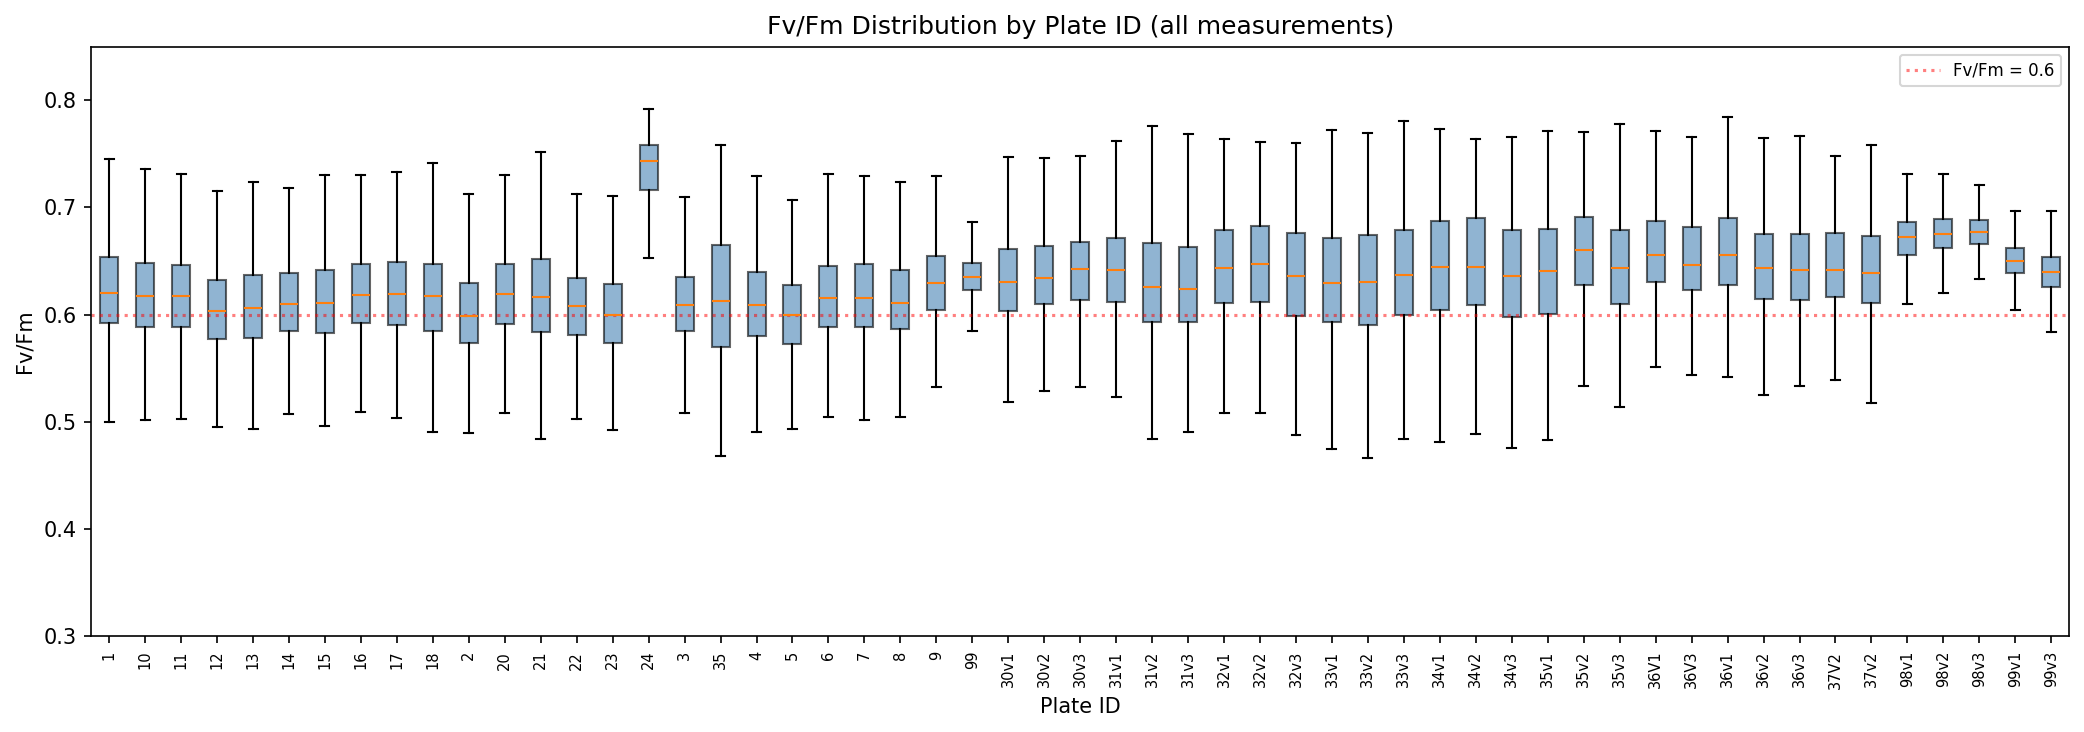
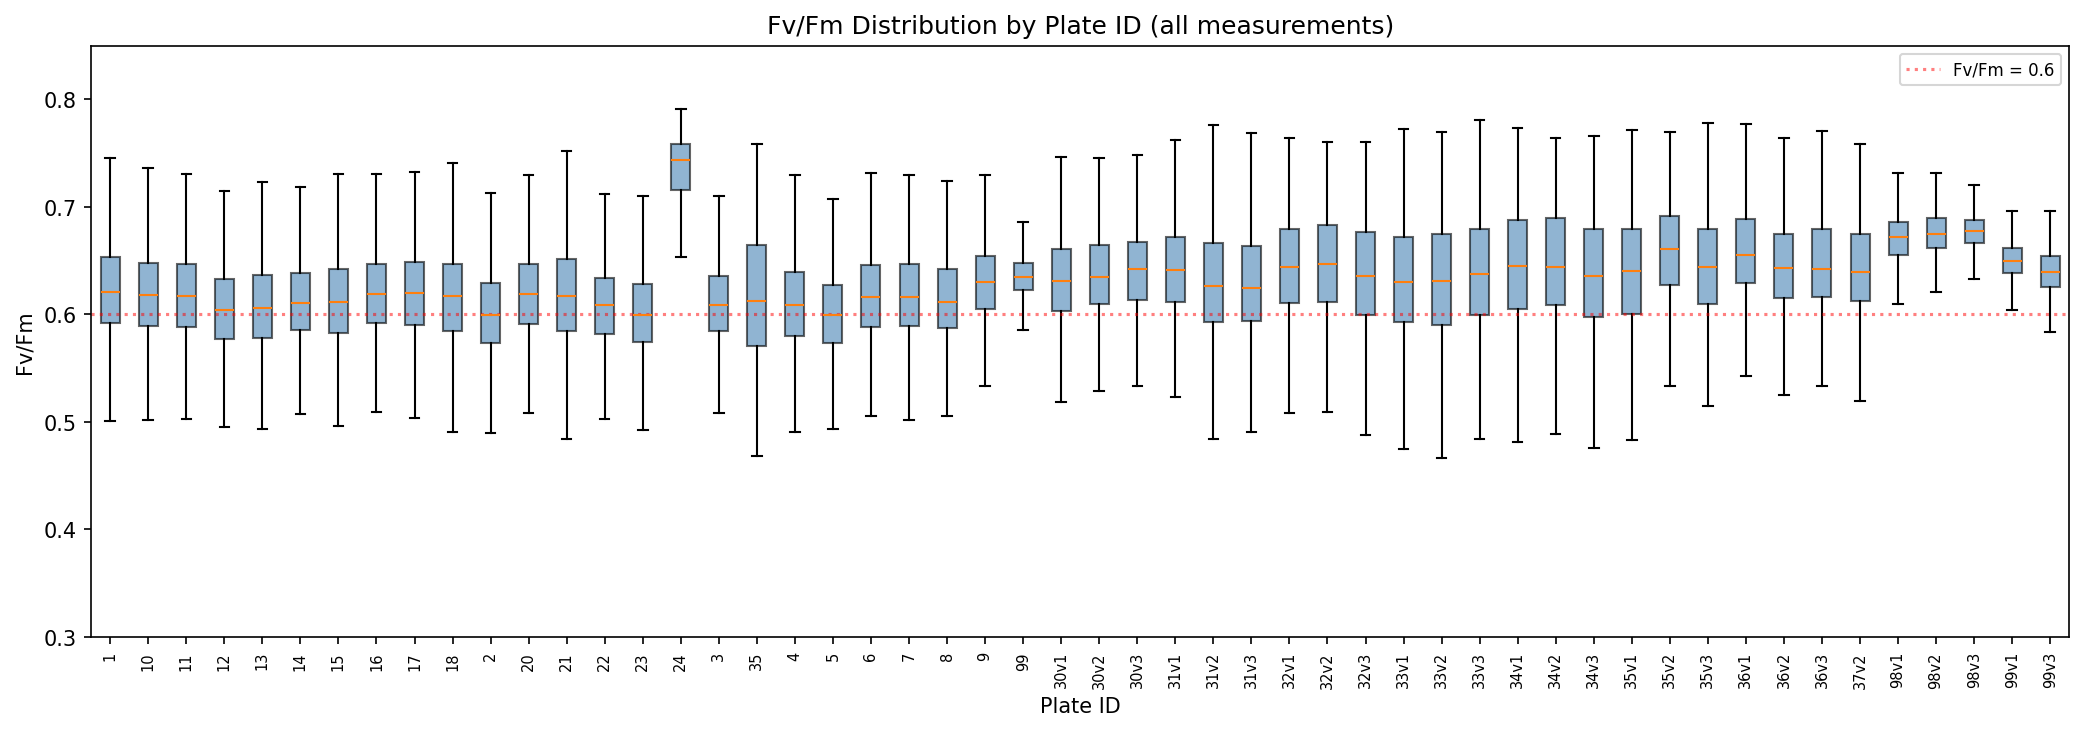
fix: normalise plate names to lowercase and remove contamination column
Plate names extracted from filenames (e.g. 36V1) are now lowercased in
parse_name(), resolving the case mismatch with the identity spreadsheet
that previously excluded 3 plates. Removed the contamination spreadsheet
merge (old data, never committed) and its associated paths/tests.
Updated report to v1.3 with current statistics (138,819 rows, 726 cols,
50 plates, 2 excluded).

Changed region(s): [[0.0, 0.1806, 0.9981, 0.6019], [0.0312, 0.8427, 0.9981, 0.9932], [0.9045, 0.0602, 0.9981, 0.0903]]

diff --git a/chlamy_impi/paths.py b/chlamy_impi/paths.py
@@ -32,10 +32,6 @@ CORRECTED_WELL_SEGMENTATION_DIR = PROJECT_ROOT / "output" / "corrected_well_segm
 IDENTITY_SPREADSHEET_PATH = \
     INPUT_DIR / "20251002 Finalized Identities Phase I plates.xlsx"
 
-# CONTAMINATION_SPREADSHEET_PATH records per-well contamination observations
-CONTAMINATION_SPREADSHEET_PATH = INPUT_DIR / "Contamination Phase I.xlsx"
-
-
 # DATABASE_DIR is where we save the output of the database creation as .csv files
 DATABASE_DIR = PROJECT_ROOT / "output" / "database_creation"
 
@@ -110,9 +106,6 @@ def npy_img_array_path(name):
 def get_identity_spreadsheet_path():
     return IDENTITY_SPREADSHEET_PATH
 
-
-def get_contamination_spreadsheet_path():
-    return CONTAMINATION_SPREADSHEET_PATH
 
 
 def get_database_output_dir():

diff --git a/chlamy_impi/error_correction/validation.py b/chlamy_impi/error_correction/validation.py
@@ -26,11 +26,13 @@ def get_timestamp_check_exempt_plates() -> frozenset[str]:
         20231102_4-M4_20h_ML          — 24-hour gap (experiment interrupted overnight)
         20231104_4-M6_10min-10min     — DST clock rollback (US, first Sunday Nov 2023)
         20241102_33v3-M6_10min-10min  — DST clock rollback (US, first Sunday Nov 2024)
+        20260307_37v1-M3_20h_ML       — DST spring-forward (US, second Sunday Mar 2026)
     """
     return frozenset({
         '20231102_4-M4_20h_ML',
         '20231104_4-M6_10min-10min',
         '20241102_33v3-M6_10min-10min',
+        '20260307_37v1-M3_20h_ML',
     })
 
 

diff --git a/tests/test_database_content.py b/tests/test_database_content.py
@@ -16,7 +16,7 @@ _DB_PATH = get_csv_filename()
 # Plates documented in the Stage 2b report section as present in the
 # experimental data but absent from the identity spreadsheet, and therefore
 # excluded from the final database.
-_PLATES_EXCLUDED_NO_IDENTITY = {"34v1", "34v2", "34v3", "35", "35v1", "35v2", "35v3"}
+_PLATES_EXCLUDED_NO_IDENTITY = {"34v3", "35"}
 
 
 @unittest.skipUnless(_DB_PATH.exists(), "Real database file not found — run the pipeline first")

diff --git a/chlamy_impi/database_creation/utils.py b/chlamy_impi/database_creation/utils.py
@@ -84,7 +84,7 @@ def parse_name(f, return_date: int = False):
         assert len(parts) in {3, 4}, f"Unexpected number of parts in filename: {f}, parts: {parts}"
 
         middle = parts[1].split("-")
-        plate_num = middle[0]
+        plate_num = middle[0].lower()
 
         measurement_num = middle[1]
 

diff --git a/docs/index.md b/docs/index.md
@@ -19,18 +19,18 @@ This report documents the Chlamy-IMPI data processing pipeline, which extracts p
 
 | Metric | Value |
 |---|---|
-| Raw TIF/CSV pairs processed | **350** |
-| Plates passing error correction | **350 / 350** (100%) |
+| Raw TIF/CSV pairs processed | **388** |
+| Plates passing error correction | **388 / 388** (100%) |
 | Unique plate IDs in database | **50** |
-| Unique plate IDs in experimental data | **55** (5 excluded: no identity mapping) |
+| Unique plate IDs in experimental data | **52** (2 excluded: no identity mapping) |
 | Light regimes | **8** |
-| Total wells in database | **136,389** |
-| Non-empty wells (valid signal) | **128,827** (94.5%) |
-| Empty wells (no algal colony) | **7,562** (5.5%) |
+| Total wells in database | **138,819** |
+| Non-empty wells (valid signal) | **131,135** (94.5%) |
+| Empty wells (no algal colony) | **7,684** (5.5%) |
 | Timeseries data points | **9,975,264** |
 | Date range of experiments | Oct 2023 -- Apr 2026 |
-| Database columns | **727** |
-| Database rows | **136,389** |
+| Database columns | **726** |
+| Database rows | **138,819** |
 
 ### Photosynthetic parameter summary (non-empty wells)
 
@@ -40,7 +40,7 @@ This report documents the Chlamy-IMPI data processing pipeline, which extracts p
 | Y(II) | 0.365 | 0.343 | -- |
 | Y(NPQ) | 0.180 | 0.188 | -- |
 
-The pipeline is **stable and reproducible**: the latest run (2026-04-09) added 9 new plates and the `contaminated` column compared to the previous run (2026-02-26). Parameter values for existing wells are unchanged.
+The pipeline is **stable and reproducible**: the latest run (2026-04-10) added 9 new plates compared to the previous run (2026-02-26), and resolved plate name case inconsistencies. Parameter values for previously-existing wells are unchanged.
 
 ---
 
@@ -80,7 +80,7 @@ data/                          (raw TIF + CSV files)
 
 **Input data format:** Each experiment produces a paired `.tif` (multi-frame fluorescence images) and `.csv` (measurement timestamps) file. Each TIF contains alternating dark (F0) and light (Fm) frames -- two frames per measurement timepoint. The 384-well plates are arranged in a 16-row x 24-column grid.
 
-**Output:** A single canonical `database.csv` (136,389 rows x 727 columns) containing per-well photosynthetic parameters, timeseries data, and genetic identity for all experiments.
+**Output:** A single canonical `database.csv` (138,819 rows x 726 columns) containing per-well photosynthetic parameters, timeseries data, and genetic identity for all experiments.
 
 ---
 
@@ -123,7 +123,7 @@ Expected intervals (per time regime) are defined in `database_creation/constants
 
 ### Results
 
-- **350 / 350 plates pass** (100%)
+- **388 / 388 plates pass** (100%)
 - 3 plates have known timestamp anomalies (camera clock drift or DST rollback) but **valid image data and correct frame counts**. They are **included in the final database**. These plates are exempt from timestamp monotonicity and interval-consistency checks but pass all other validation:
 
 | Plate | Reason |
@@ -206,7 +206,7 @@ This method was selected after comparing 5 candidate approaches (see [Masking Me
 
 ### Masking method comparison
 
-Five masking strategies were evaluated across all 350 plates:
+Five masking strategies were evaluated across all plates:
 
 | Method | Empty wells | Mean mask size | Y(NPQ) valid? |
 |---|---|---|---|
@@ -259,17 +259,14 @@ A canonical `database.csv` is also written for backwards compatibility.
 
 The identity spreadsheet maps `(plate, well_id)` to mutant identifiers. Mismatches between the spreadsheet and the experimental data are logged as errors/warnings and result in data being silently excluded from the final database.
 
-**Plates in experimental data but not in the identity spreadsheet** (5 plate labels — excluded from database):
+**Plates in experimental data but not in the identity spreadsheet** (2 plate labels — excluded from database):
 
 | Plate | Notes |
 |---|---|
 | `34v3` | No identity mapping |
 | `35` | No identity mapping |
-| `36V1` | Case variant of `36v1` (which is in the DB) |
-| `36V3` | Case variant of `36v3` (which is in the DB) |
-| `37V2` | Case variant of `37v2` (which is in the DB) |
 
-Plates `34v3` and `35` have valid segmentation and parameter data (Stage 2a) but cannot be included without mutant identity information. The three case-variant plates (`36V1`, `36V3`, `37V2`) arise from inconsistent filename capitalisation; their lowercase equivalents are matched and included.
+These plates have valid segmentation and parameter data (Stage 2a) but cannot be included without mutant identity information.
 
 **Plates in identity spreadsheet but not in experimental data** (3 plates):
 
@@ -313,20 +310,20 @@ The pipeline supports versioned databases. Each run is saved with its date, and 
 - Wells that change from empty to non-empty or vice versa
 - Parameter diffs exceeding thresholds (Fv/Fm > 0.05, Y(II) > 0.10)
 
-**Latest comparison (2026-02-26 vs 2026-04-09):** +18,877 rows (117,512 → 136,389), 9 plates added (34v1, 34v2, 35v1, 35v2, 35v3, 36v1, 36v2, 36v3, 37v2), 1 column added (`contaminated`). Parameter values for previously-existing wells are unchanged.
+**Latest comparison (2026-02-26 vs 2026-04-10):** +21,307 rows (117,512 → 138,819), 9 plates added (34v1, 34v2, 35v1, 35v2, 35v3, 36v1, 36v2, 36v3, 37v2). Plate name case normalisation resolved 3 previously-excluded case-variant plates (36V1, 36V3, 37V2 → merged with lowercase equivalents). Parameter values for previously-existing wells are unchanged.
 
 ### Experiments per light regime
 
 | Light regime | Plate count |
 |---|---|
-| 10min-10min | 59 |
-| 1min-1min | 51 |
+| 10min-10min | 60 |
+| 1min-1min | 53 |
+| 2h-2h | 52 |
+| 20h_ML | 51 |
 | 30s-30s | 51 |
-| 2h-2h | 51 |
-| 20h_ML | 50 |
 | 20h_HL | 49 |
 | 1min-5min | 28 |
-| 5min-5min | 26 |
+| 5min-5min | 28 |
 
 ---
 
@@ -355,7 +352,7 @@ The pipeline generates per-light-regime timeseries mosaics showing Y(II) and Y(N
 - **100% of raw plates** pass automated error correction (3 plates exempt from timestamp checks)
 - **94.5% of wells** have valid signal (mask area >= 3 pixels)
 - **0 regression failures** between consecutive pipeline runs (parameter values unchanged for existing wells)
-- **5 plate labels excluded** from the database (2 missing from identity spreadsheet, 3 case-variant duplicates)
+- **2 plate labels excluded** from the database (missing from identity spreadsheet)
 - **635 wells dropped** across 14 plates (no identity entry)
 
 ### Tiny mask wells
@@ -386,15 +383,14 @@ Three plates have known camera clock issues (overnight interruption or DST rollb
 
 1. **Plate `31v2-M2_20h_HL`** should be flagged for manual review due to very low signal
 2. **Update the identity spreadsheet** to add entries for plates `34v3` and `35` (currently excluded from the database), to complete coverage for `34v1` (10 dropped wells), `34v2` (380 dropped wells), and `37v2` (129 dropped wells) — see [Identity spreadsheet coverage](#identity-spreadsheet-coverage)
-3. **Fix plate name case inconsistency** — experimental data files for plates `36V1`, `36V3`, and `37V2` use uppercase "V" while the identity spreadsheet uses lowercase; normalising the plate naming convention would eliminate 3 of the 5 excluded plate labels
-4. Future DST-affected plates should be added to the exemption list in `error_correction/validation.py`
-5. The masking threshold (global min 3-sigma) uses the pixel-wise minimum over time, so borderline wells at plate edges where signal varies between frames are more likely to be excluded
+3. Future DST-affected plates should be added to the exemption list in `error_correction/validation.py`
+4. The masking threshold (global min 3-sigma) uses the pixel-wise minimum over time, so borderline wells at plate edges where signal varies between frames are more likely to be excluded
 
 ---
 
 ## Appendix: Database Schema
 
-The final `database.csv` contains 727 columns and 136,389 rows. One row per (plate x measurement x well).
+The final `database.csv` contains 726 columns and 138,819 rows. One row per (plate x measurement x well).
 
 ### Identification columns
 
@@ -428,7 +424,6 @@ The final `database.csv` contains 727 columns and 136,389 rows. One row per (pla
 | `mutated_genes` | Gene(s) affected |
 | `num_mutations` | Number of mutations |
 | `confidence_level` | Confidence in genetic annotation |
-| `contaminated` | Boolean flag from contamination spreadsheet |
 
 ---
 

diff --git a/CLAUDE.md b/CLAUDE.md
@@ -23,7 +23,18 @@ python -m pytest tests/
 # Run a single test file
 python -m pytest tests/test_fv_fm.py
 
+# Download latest raw data + identity spreadsheet from Google Drive (uses rclone)
+cd data && bash download_data.sh
+
+# Download identity spreadsheet only
+cd data && bash download_identity_sheet.sh
+
+# Clear all pipeline caches (interactive confirmation prompt)
+bash scripts/clear_caches.sh
+
 # Run the full pipeline (4 stages in order)
+bash scripts/generate_database.sh
+# or individually:
 python -m chlamy_impi.error_correction.main
 python -m chlamy_impi.well_segmentation_preprocessing.main
 python -m chlamy_impi.image_processing.main
